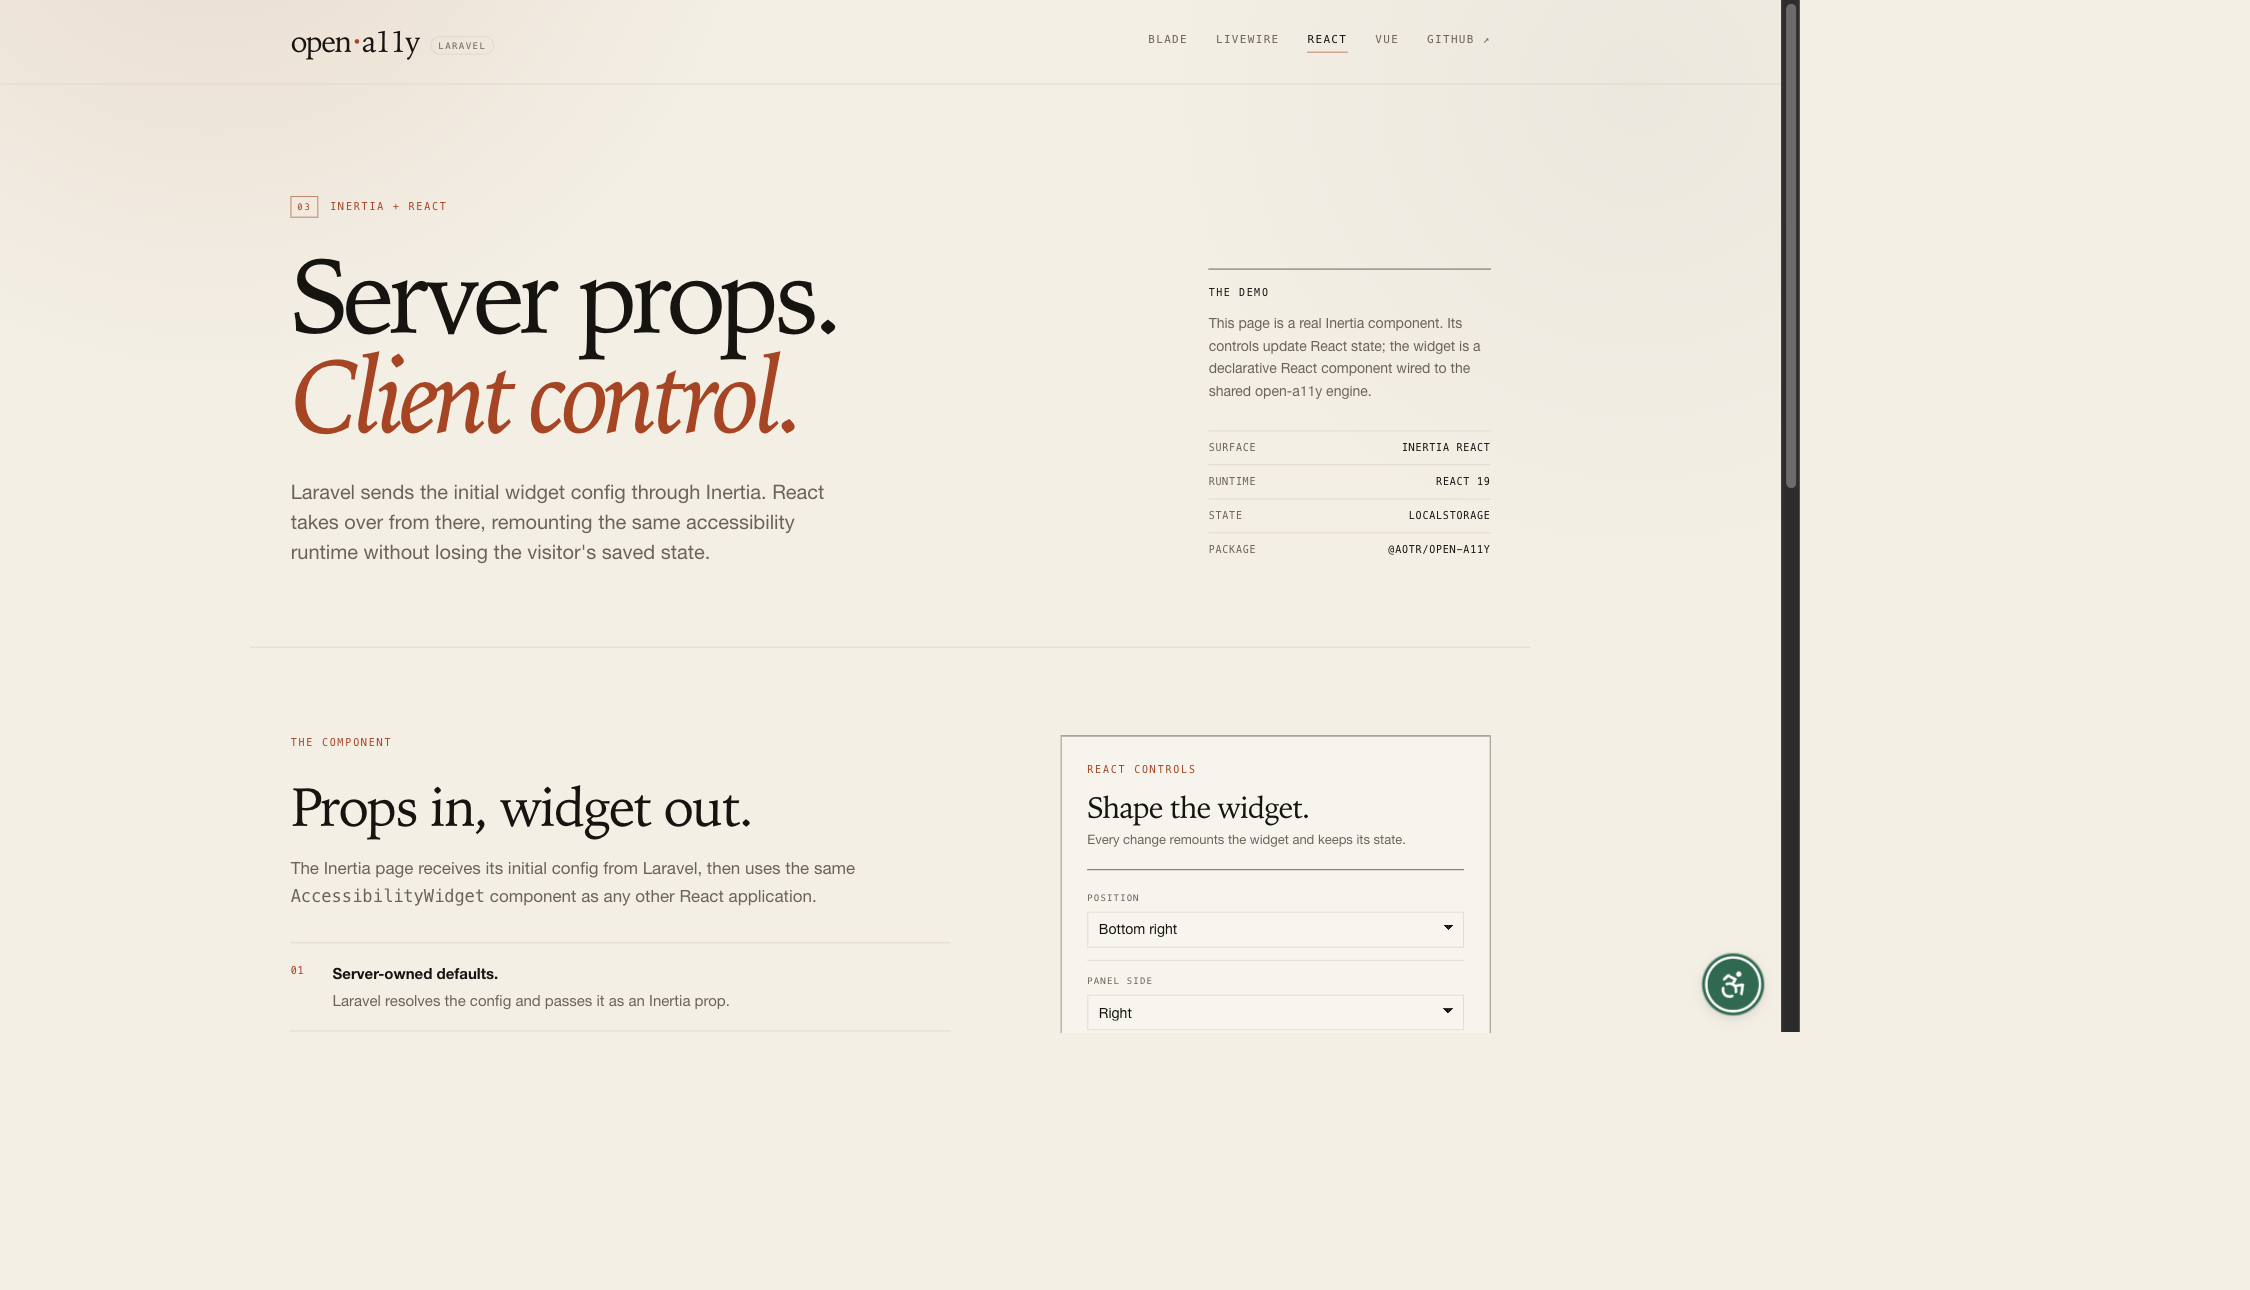
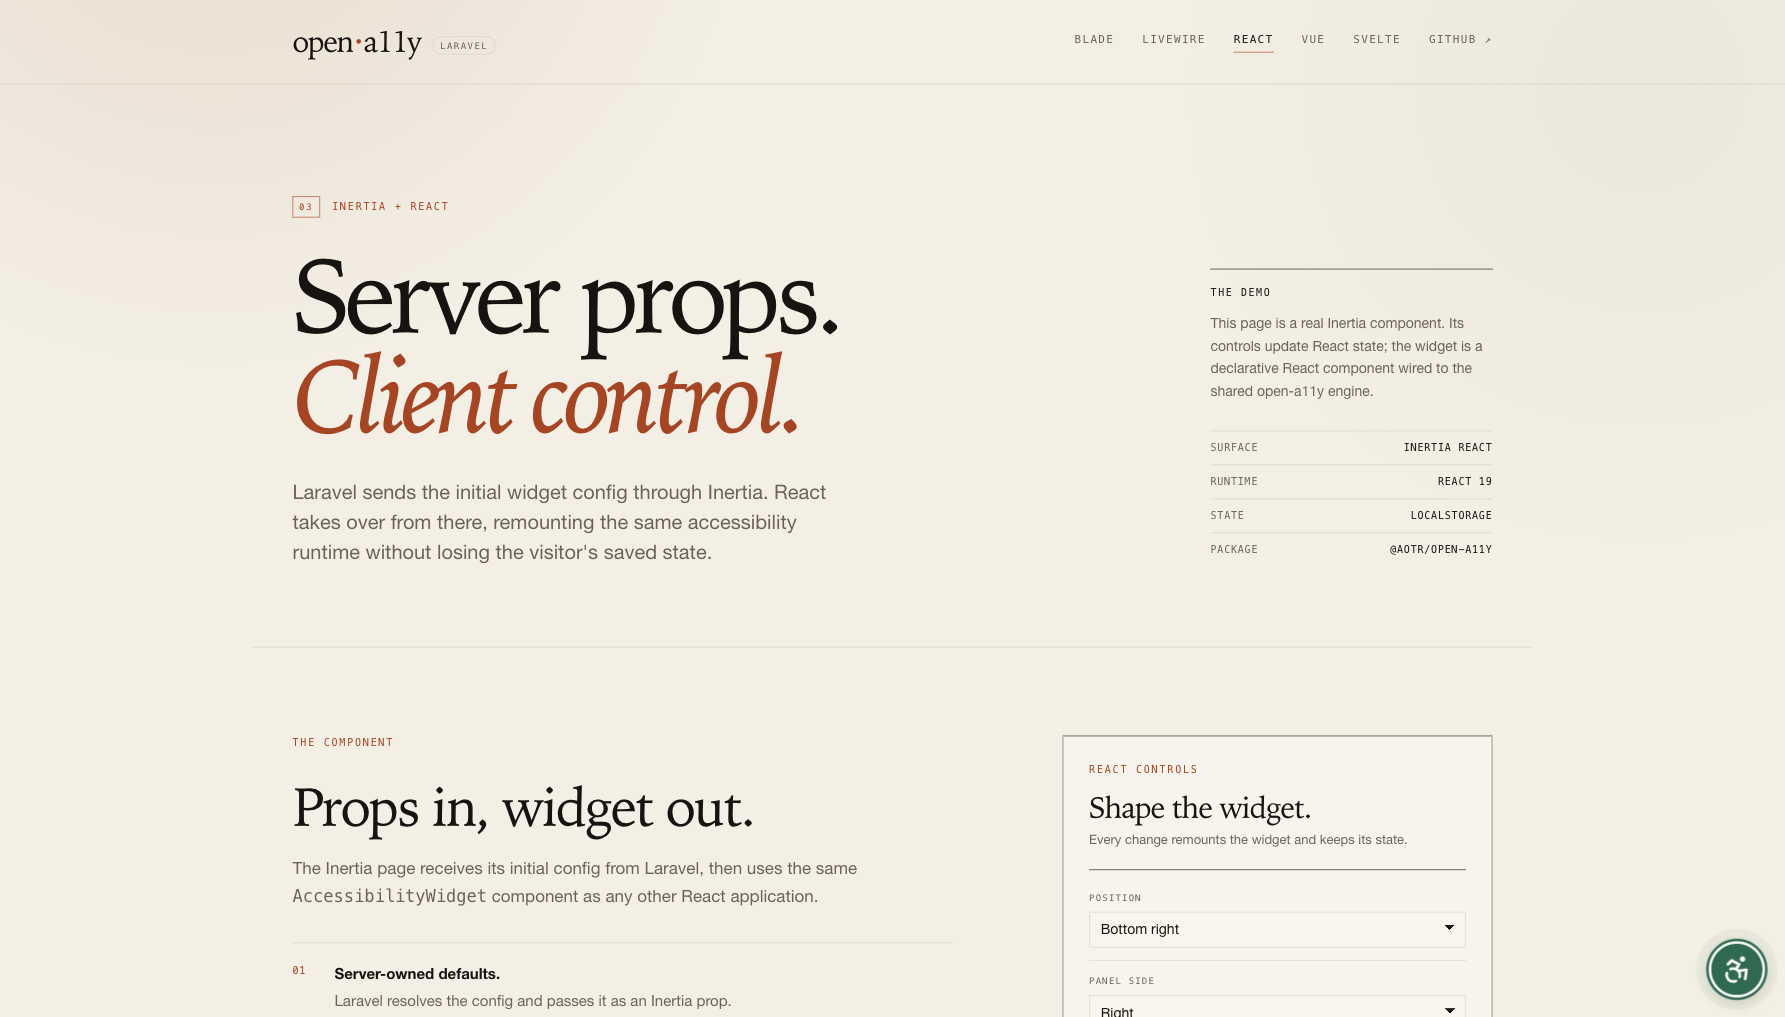
docs: add editorial overview art

diff --git a/README.md b/README.md
@@ -9,6 +9,8 @@
 
 open-a11y ships profiles, individual tools, keyboard shortcuts, persisted preferences, and a shadow-DOM interface. This package gives that runtime a Blade component, a Livewire component, publishable config, and a standalone browser bundle. It also includes complete Inertia React, Vue, and Svelte example pages. No Node, Vite, or front-end build is required for the Blade/Livewire package itself.
 
+![open-a11y Laravel surfaces](art/overview.png)
+
 ```blade
 <x-open-a11y::widget :config="['position' => 'bottom-right', 'brand' => ['primary' => '#0f6b4f']]" />
 ```
